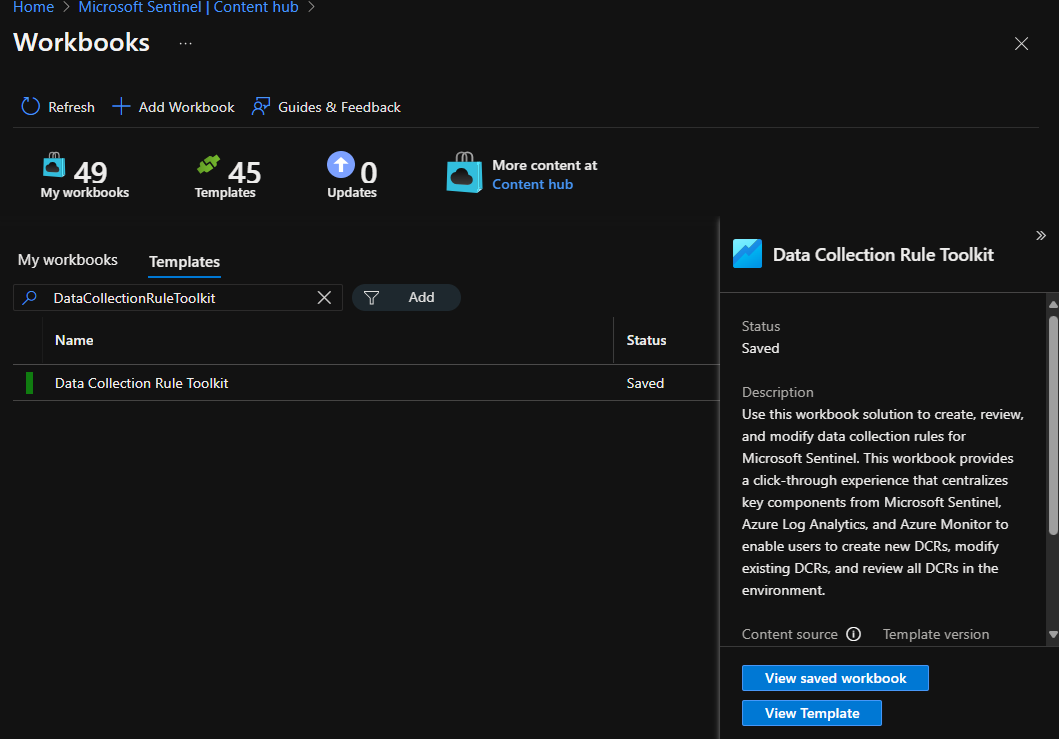
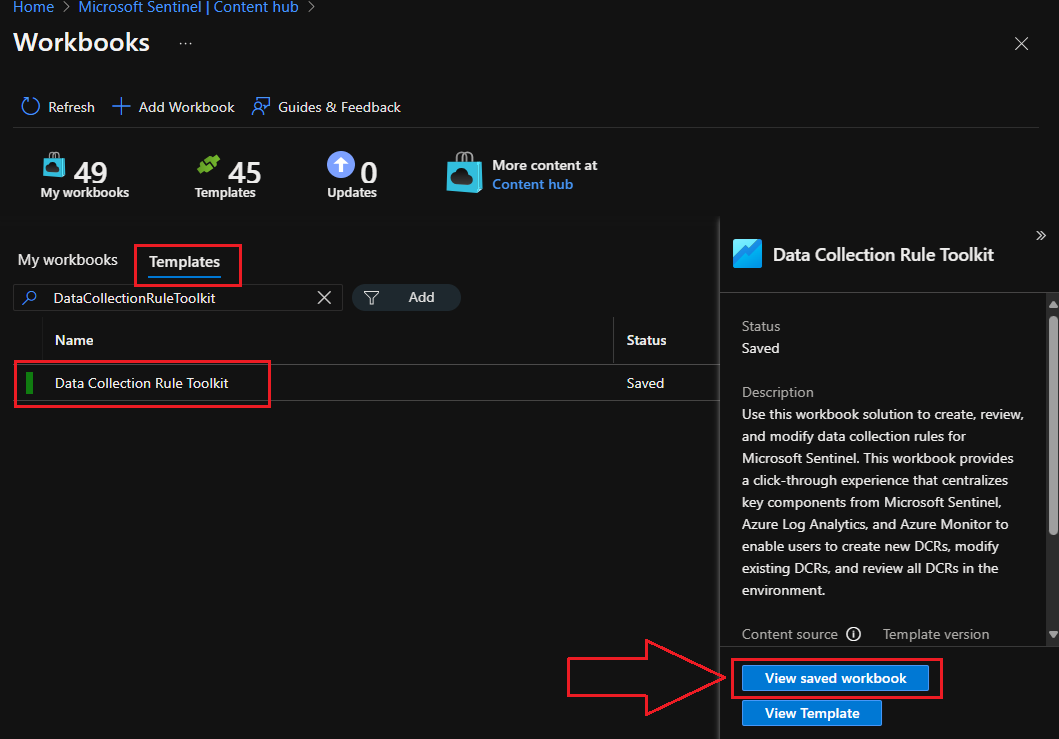
DCR Workbook integration

diff --git a/_posts/🔪 Cutting Through the Noise: Reducing Fortinet Teardown Traffic in Microsoft Sentinel.md b/_posts/🔪 Cutting Through the Noise: Reducing Fortinet Teardown Traffic in Microsoft Sentinel.md
@@ -357,9 +357,62 @@ First, we need to navigate to the **Sentinel > Content Management > Content Hub*
 
 <br/>
 
+Once you find and select it, a fly-out will pop from the right hand side with an **Install** button:
+
+![](/assets/img/Fortinet%20DCR/DCRToolkit_Install.png)
+
+<br/>
+
+Now that you've installed it from the Content Hub, you can open it by navigating to **Threat Management > Workbooks > Templates** and searching for **Data Collection Toolkit**. Select the workbook, then click on **View saved workbook**:
+
+![](/assets/img/Fortinet%20DCR/DCRToolkit_Open%20Workbook.png)
+
+<br/>
+
+Chances are... if you're reading this far it's because you've already got a DCR in place to collect your Fortinet logs so lets look at how to adjust an existing DCR with our transformationKQL next.
+
+![](/assets/img/Fortinet%20DCR/DCRToolkit_ModifyDCR.png)
+
+<br/>
+
+This will show you a list of existing DCR rules in play:
+
+![](/assets/img/Fortinet%20DCR/DCRToolkit_ModifyDCRRuleList.png)
+
+<br/>
+
+Select the DCR rule responsible for collecting Fortinet logs, then click on **Modify**:
+
+![](/assets/img/Fortinet%20DCR/ModifyDCR.png)
+
+<br/>
+
+Find the right spot under **dataFlows** to insert your **"transformKql"** JSON statement as described in the commented out JSON example earlier and paste it in, illustrated below:
+
+![](/assets/img/Fortinet%20DCR/DCRToolkit_transformKql%20Statement%20for%20DCR_JSON.png)
+
+<br/>
+
+Next we need to **PUT** the new DCR template to production with the **Deploy Update** button:
+
+![](/assets/img/Fortinet%20DCR/DCRToolkit_Deploy.png)
+
+<br/>
+
+![](/assets/img/Fortinet%20DCR/DCRToolkit_PUT%20succeeded.png)
+
+<br/>
+
+Confirm your deployment:
+
+![](/assets/img/Fortinet%20DCR/DCRToolkit_UpdateDCR_Confirmation.png)
+
+<br/>
 
 
-# Deploy the DCR Template via Azure CLI
+
+
+# Deploy the DCR Template via Azure CLI [Optional]
 
 Step 1 - login to Azure CLI and set Subscription: 
 
